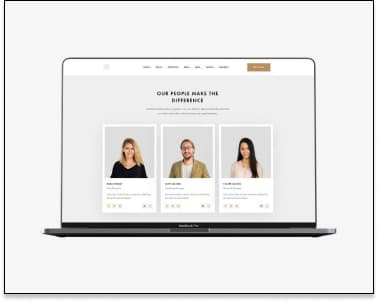
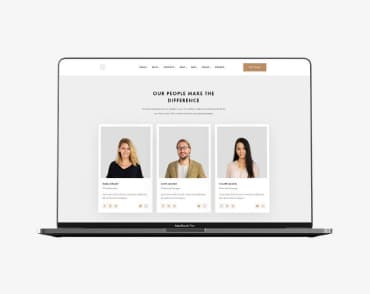
Сделал правки

diff --git a/css/styles.css b/css/styles.css
@@ -38,10 +38,7 @@ body {
   clip: rect(0 0 0 0);
   overflow: hidden;
 }
-.current:hover,
-.current:focus {
-  color: var(--accent-color);
-}
+
 .logo-header {
   font-family: "Raleway";
   font-weight: 700;
@@ -57,6 +54,10 @@ body {
   line-height: 1.14;
   letter-spacing: 0.02em;
   color: var(--title-color);
+}
+.current:hover,
+.current:focus {
+  color: var(--accent-color);
 }
 .contacts-link {
   font-weight: 500;
@@ -95,6 +96,7 @@ body {
 }
 .peculiarities-title {
   font-weight: 700;
+  font-size: 14px;
   line-height: 1.14;
   text-transform: uppercase;
 }
@@ -143,8 +145,10 @@ body {
   font-weight: 500;
   font-size: 16px;
   line-height: 1.62;
+  letter-spacing: 0.03em;
   text-align: center;
   cursor: pointer;
+  border: none;
   color: var(--title-color);
   background: var(--secondary-background);
 }
